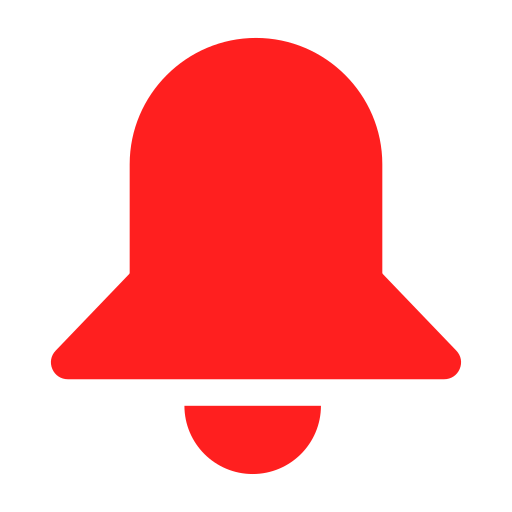
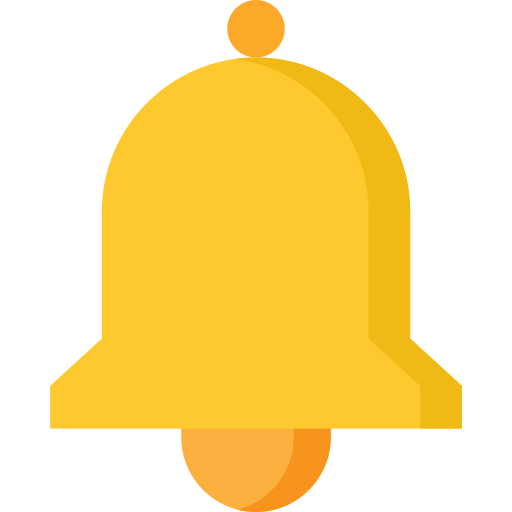
fix: added the fix

diff --git a/src/index.css b/src/index.css
@@ -3576,3 +3576,77 @@ html[data-theme="light"] .result-card-game {
 html[data-theme="light"] .result-table-row {
   border-color: #e1e1e1;
 }
+
+/* ============================================================
+   PROFILE PAGE — LIGHT THEME OVERRIDES
+   ============================================================ */
+
+html[data-theme="light"] .profile-container {
+  background: #ffffff;
+  color: #222222;
+  border-color: #d8d8d8;
+}
+
+html[data-theme="light"] .profile-header {
+  border-bottom-color: #e1e1e1;
+}
+
+html[data-theme="light"] .profile-name {
+  color: #222222;
+}
+
+html[data-theme="light"] .profile-phone,
+html[data-theme="light"] .profile-phone svg {
+  color: #777777;
+}
+
+html[data-theme="light"] .profile-verified-btn {
+  color: var(--color-primary-dark);
+  border-color: rgba(224, 155, 26, 0.4);
+  background: #fffaf0;
+}
+
+html[data-theme="light"] .bank-section-title {
+  color: #222222;
+}
+
+html[data-theme="light"] .bank-section-title svg {
+  color: var(--color-primary);
+}
+
+html[data-theme="light"] .bank-details-card {
+  background: #ffffff;
+  border-color: #d8d8d8;
+}
+
+html[data-theme="light"] .bank-detail-row {
+  border-bottom-color: #e1e1e1;
+}
+
+html[data-theme="light"] .bank-detail-label {
+  color: #777777;
+}
+
+html[data-theme="light"] .bank-detail-value {
+  color: #222222;
+}
+
+html[data-theme="light"] .profile-action-btn.primary {
+  background: var(--color-primary);
+  color: #1a1a1a;
+}
+
+html[data-theme="light"] .profile-action-btn.secondary {
+  background: #eeeeee;
+  color: #222222;
+  border-color: #d8d8d8;
+}
+
+html[data-theme="light"] .profile-action-btn.secondary svg {
+  color: #222222;
+}
+
+html[data-theme="light"] .profile-action-btn.secondary:hover {
+  background: #e5e5e5;
+  color: #111111;
+}

diff --git a/src/header.css b/src/header.css
@@ -90,32 +90,22 @@
   height: 40px;
   min-width: 40px;
   width: 40px;
-
   display: flex;
   align-items: center;
   justify-content: center;
-
-  border: 1px solid var(--color-border-light);
-
+  border: none;
   border-radius: var(--radius-lg);
-
-  background: var(--color-white);
-
+  background: transparent;
   color: var(--color-text-primary);
-
   cursor: pointer;
-
   transition: var(--transition-fast);
-
   position: relative;
 }
 
 .header-action:hover {
-  border-color: var(--color-primary);
-
+  border-color: transparent;
   color: var(--color-primary);
-
-  background: var(--color-primary-light);
+  background: rgba(255, 255, 255, 0.08); /* subtle hover, matches dark header */
 }
 
 /* ============================================================
